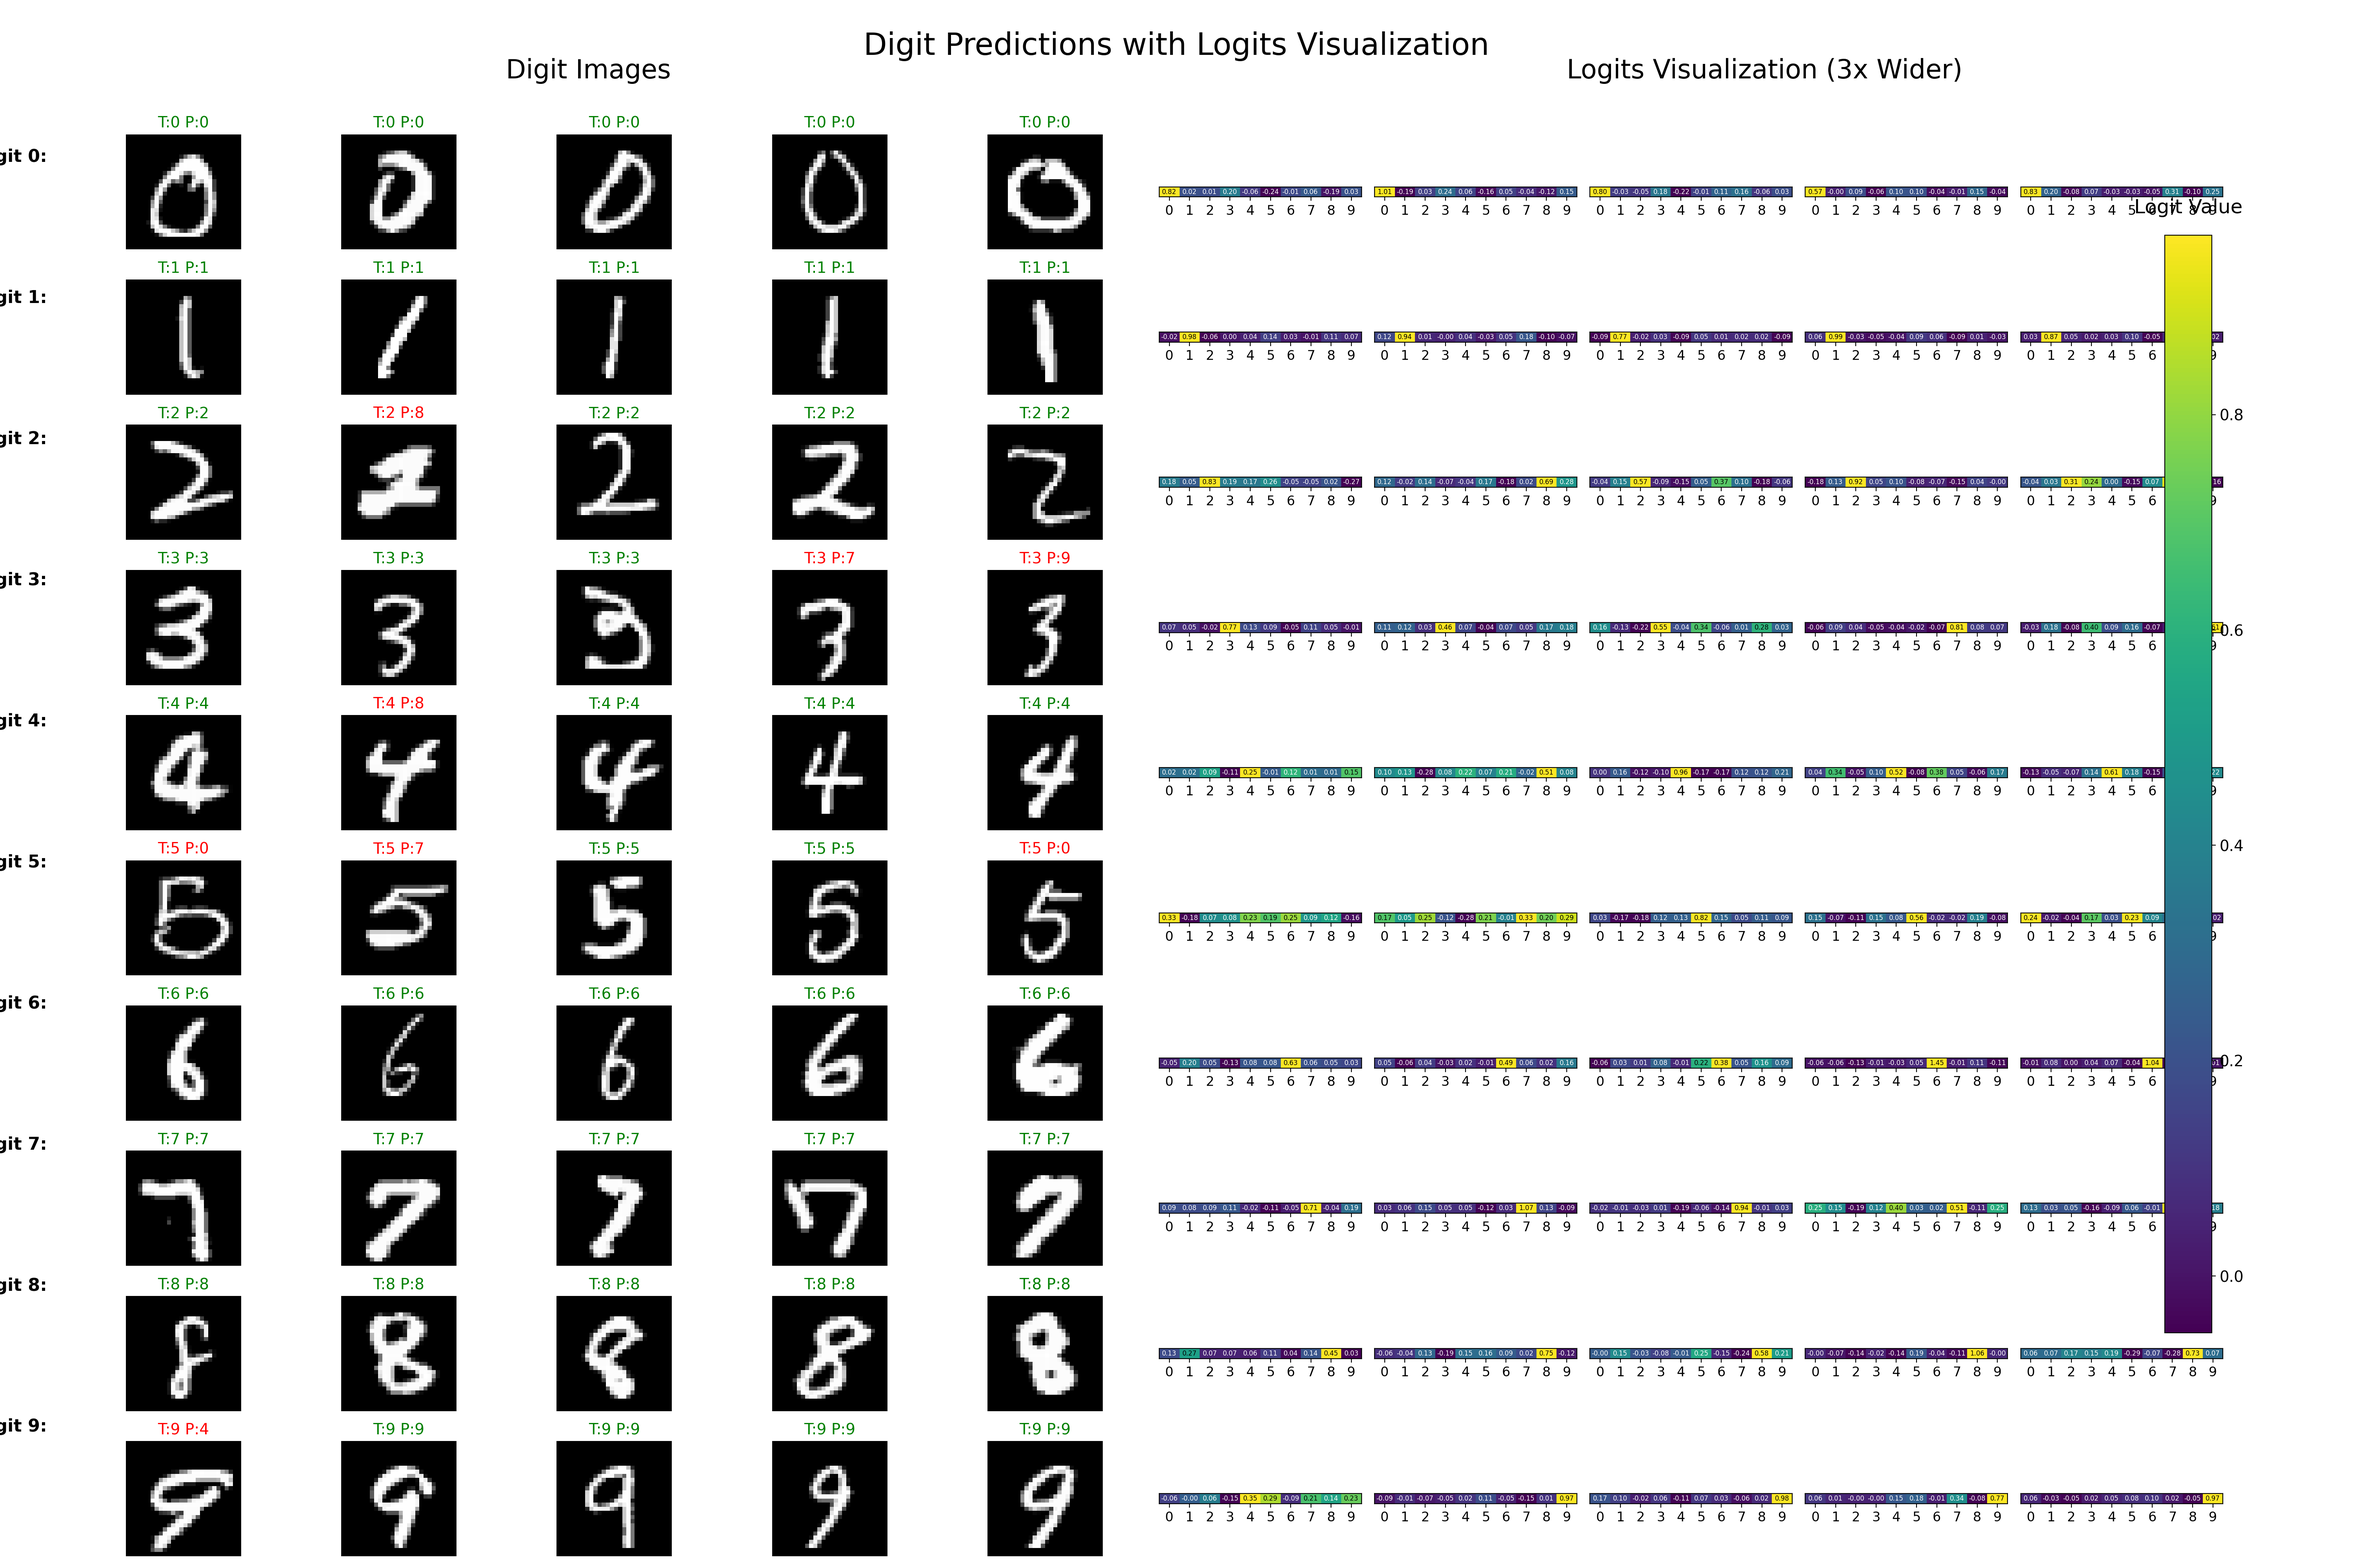
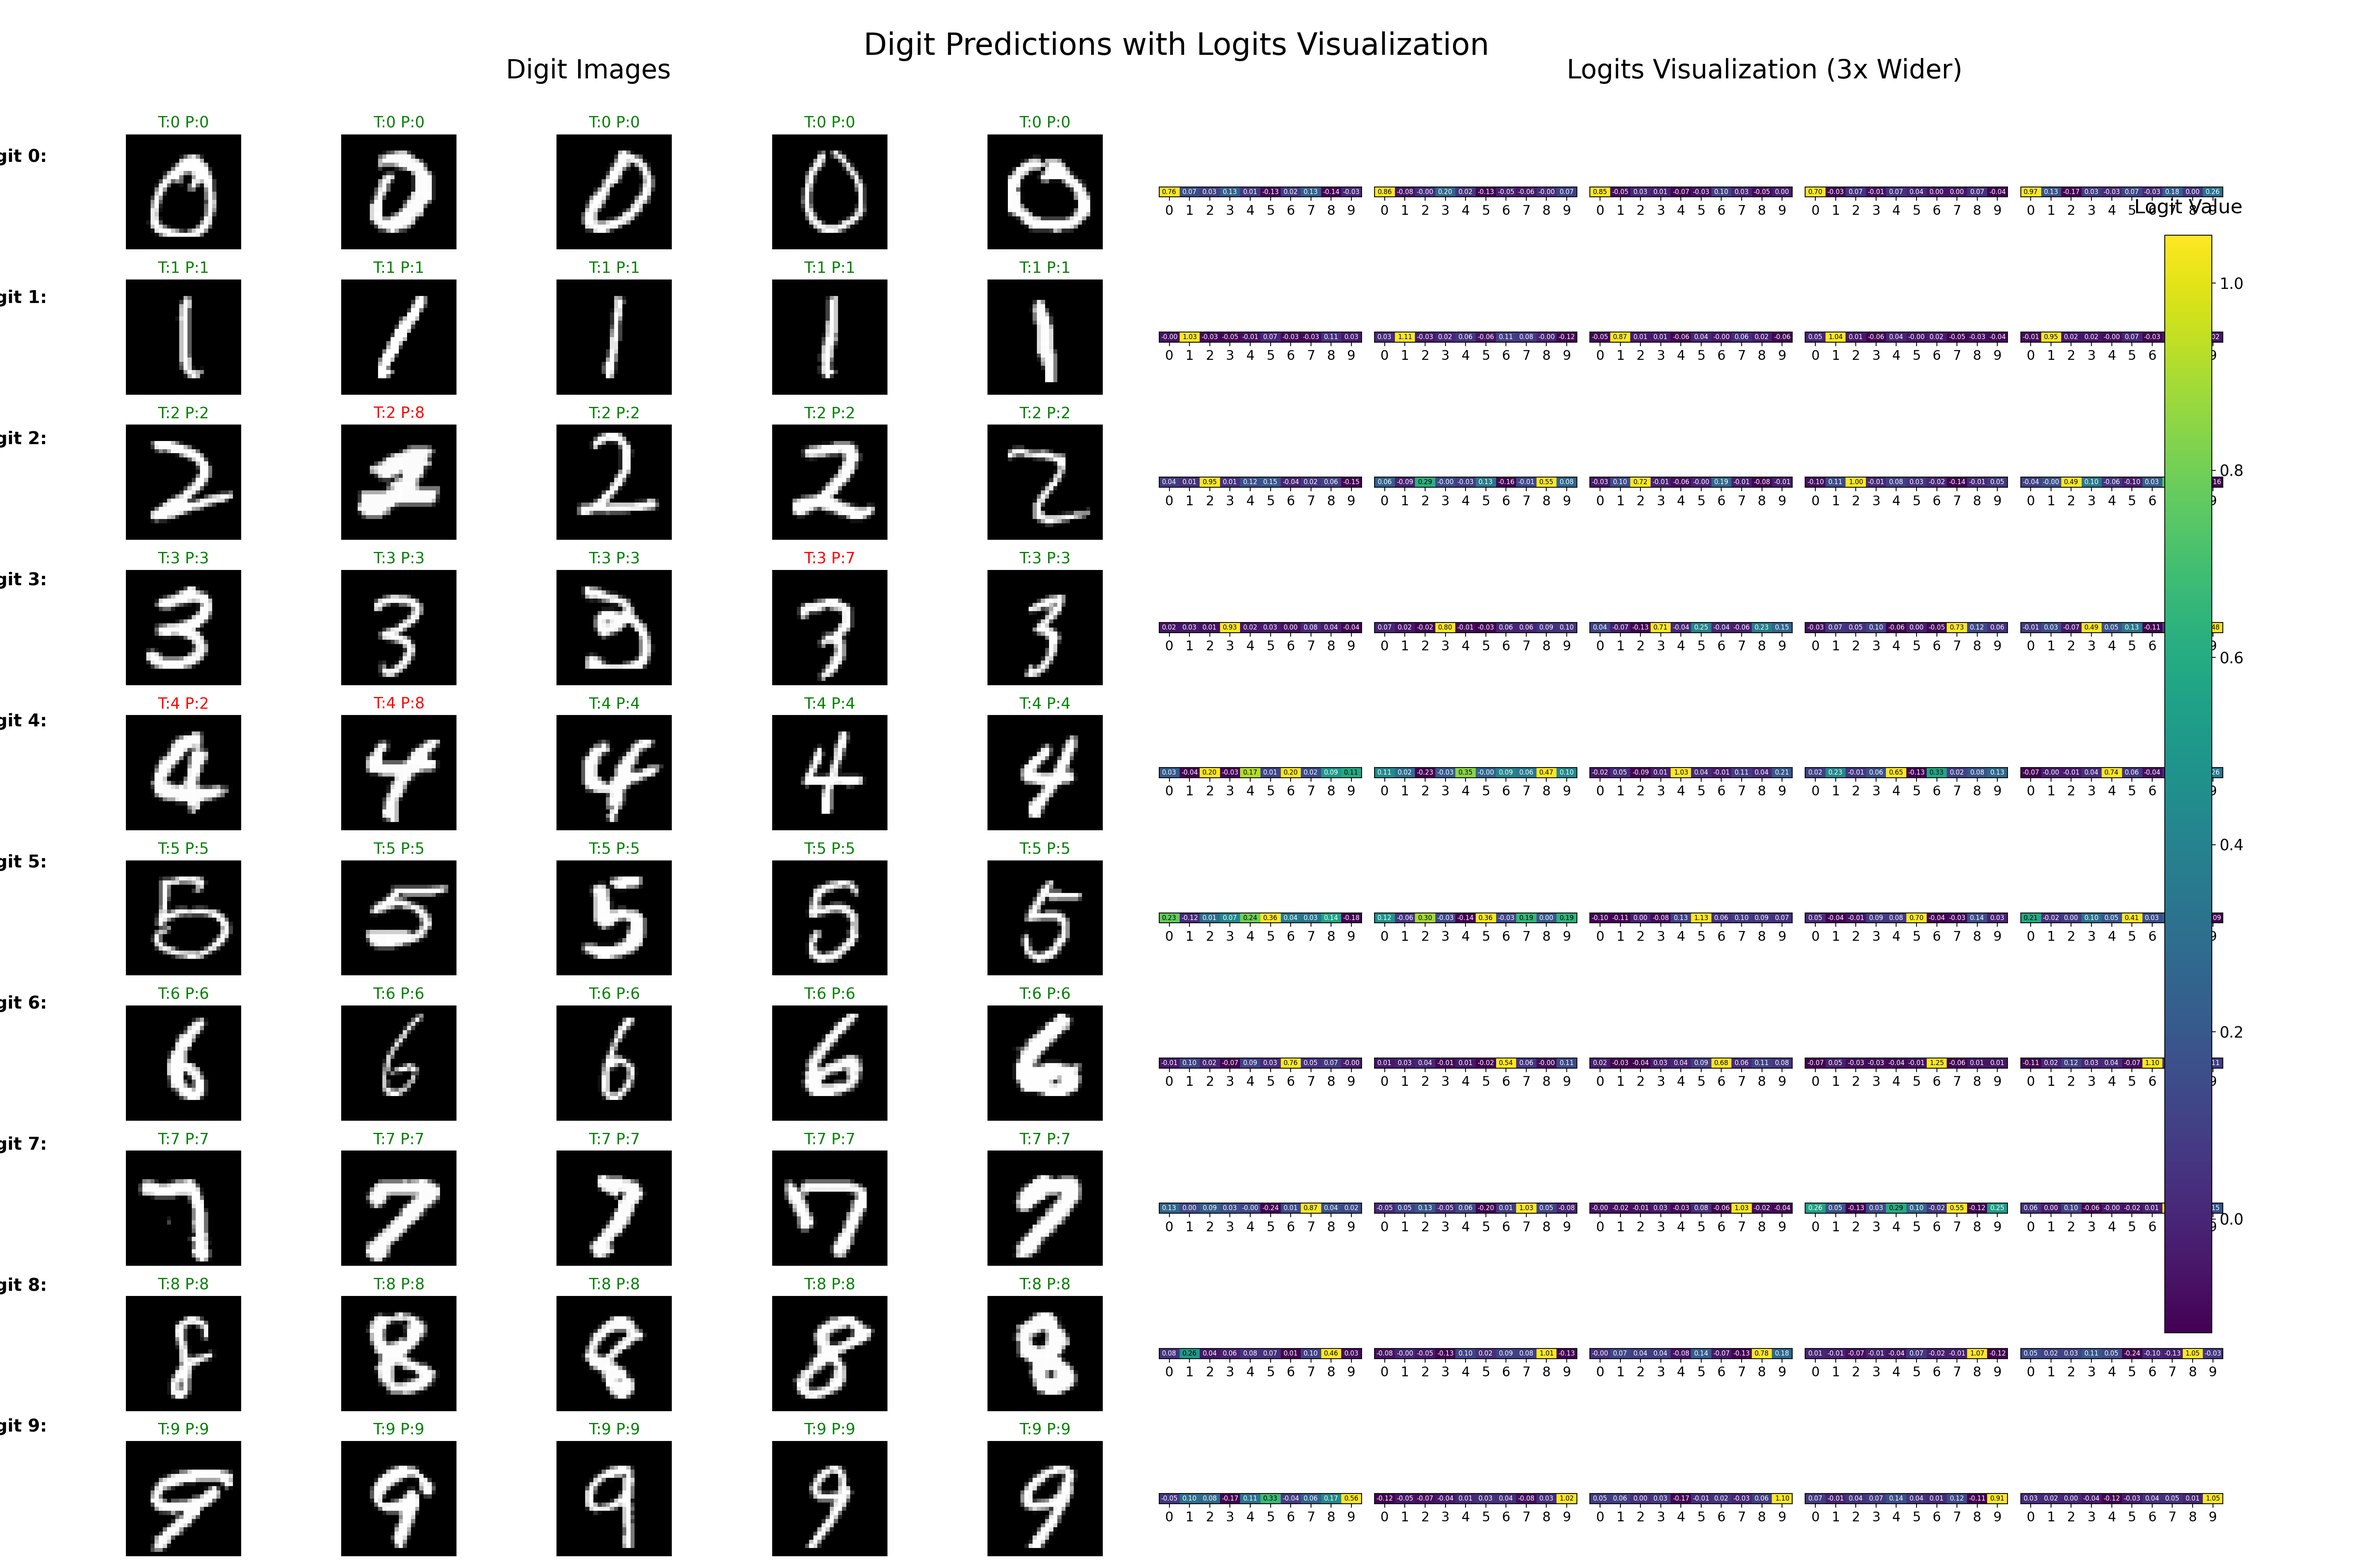
update epoch=500 result

diff --git a/README.md b/README.md
@@ -10,6 +10,7 @@
 pip install matplotlib numpy
 ```
 
+2. 运行
 
 ```sh
 cd mnist
@@ -27,3 +28,10 @@ Epoch [498/500], Time: 3.05s, Train Loss: 0.0062, Train Acc: 0.9920, Val Loss: 0
 Epoch [499/500], Time: 2.86s, Train Loss: 0.0062, Train Acc: 0.9920, Val Loss: 0.0061, Val Acc: 0.9921
 Epoch [500/500], Time: 3.09s, Train Loss: 0.0062, Train Acc: 0.9921, Val Loss: 0.0061, Val Acc: 0.9925
 ```
+
+Epoch=500:
+- Loss曲线：
+![loss_accuracy.png](mnist/loss_accuracy.png)
+
+- 验证集结果可视化：
+![digit_predictions.png](mnist/digit_predictions.png)
